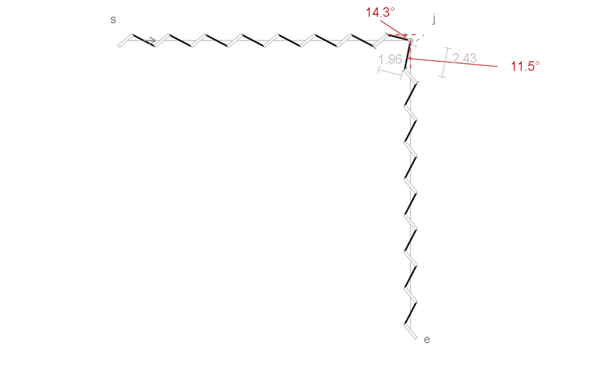
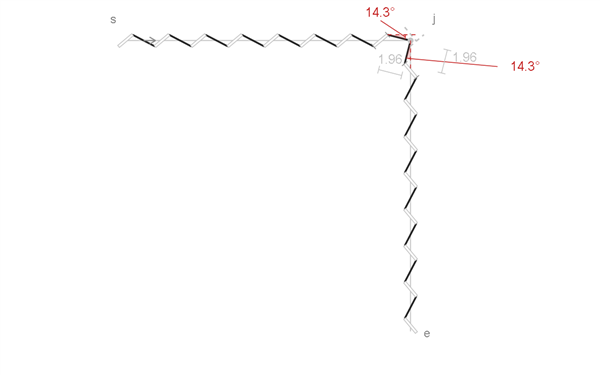
Balance vertex-point corner thread by shifting the vertical run

diff --git a/examples/illustrated/README.md b/examples/illustrated/README.md
@@ -47,7 +47,7 @@ Each solution starts at the problem's completed residual state and proceeds dire
 
 ## The corner problem
 
-`ILL-CORNER-PROBLEM`: the same right-angle guides, at $3\,\mathrm{mm}$ pitch with eight intervals per arm. Compare Vertex point, Bridge, Shared diagonal slit with mirrored lean, and Autostitch. Vertex point, the diagonal slit and Autostitch retain the outer endpoints. Bridge moves its vertical row, including the far endpoint, while retaining nominal spacing within both arms.
+`ILL-CORNER-PROBLEM`: the same right-angle guides, at $3\,\mathrm{mm}$ pitch with eight intervals per arm. Compare Vertex point, Bridge, Shared diagonal slit with mirrored lean, and Autostitch. The diagonal slit and Autostitch retain the outer endpoints. Vertex point and Bridge move their vertical rows, including the far endpoint, while retaining nominal spacing within both arms.
 
 ![Nominal rows joined by a round hole at the vertex](assets/problem-corner-vertex-point.png)
 
@@ -55,13 +55,15 @@ Each solution starts at the problem's completed residual state and proceeds dire
 
 ![Shared diagonal slit with mirrored lean](assets/problem-corner-mirrored.gif)
 
-The common arm lengths are $L_i=np-c_i/2$, with $n=8$ and $c_i$ the signed shift from the guide vertex to the A6 virtual centre along each arm's incoming direction. This gives approximately $23.471688\,\mathrm{mm}$ and $23.953779\,\mathrm{mm}$. Vertex point keeps the arm rows nominal from the outer endpoints. Vertex point absorbs the residual in the final connections to its fixed hole; Bridge joins the last nominal slits directly. A6 alone uses the minimum-adjustment selector and reserves a nominal step next to each virtual slit. The controlled balance is a fixture choice, not a general result for arbitrary endpoints.
+The common arm lengths are $L_i=np-c_i/2$, with $n=8$ and $c_i$ the signed shift from the guide vertex to the A6 virtual centre along each arm's incoming direction. This gives approximately $23.471688\,\mathrm{mm}$ and $23.953779\,\mathrm{mm}$. Vertex point keeps nominal arm spacing and shifts the vertical row to balance its corner connections. Vertex point absorbs the residual in the final connections to its fixed hole; Bridge joins the last nominal slits directly. A6 alone uses the minimum-adjustment selector and reserves a nominal step next to each virtual slit. The controlled balance is a fixture choice, not a general result for arbitrary endpoints.
+
+Vertex point translates its vertical row upward by $0.4821\,\mathrm{mm}$. The fixed vertex hole then joins two equal $1.9574\,\mathrm{mm}$ visible stitches at $14.3^\circ$ to their respective arms. The final gaps into the hole are both $2.4717\,\mathrm{mm}$; internal arm gaps remain nominal. Move the outgoing virtual slit and end marker with the row. The still and compatibility GIF use this balanced layout.
 
 Bridge translates the vertical run between two calculated positions. Matching ordinary visible thread length moves it up $1.3273\,\mathrm{mm}$, giving $2.0870\,\mathrm{mm}$ of thread and angles $47.3^\circ$ and $42.7^\circ$. Balancing the angles moves it up $1.4463\,\mathrm{mm}$, giving $2.0012\,\mathrm{mm}$ of thread and two $45^\circ$ angles. Hold each for four seconds and interpolate over $1.5\,\mathrm{s}$ each way. The still uses the length-matched position. The whole row and its end marker move; guides and incoming row stay fixed.
 
 The mirrored treatment reuses `diagonalCornerScene` with the Sellier construction parameters from `ILL-SELLIER-CORNER`, extended to the common arm lengths. Its rows stay nominal from the outer endpoints; only the final gaps into the vertex slit absorb the residuals. These are approximately $2.472\,\mathrm{mm}$ and $2.954\,\mathrm{mm}$; the first is below the Autostitch gap bound. Total absolute adjustment matches A6, but the adjusted-gap count does not. The top row starts punched; the vertical row mirrors in place before the shared diagonal slit appears.
 
-The Autostitch solution starts at the completed Vertex point layout. Its virtual slits continue the nominal rows one pitch beyond their last real slits; they are not centred on the vertex. Move the terminal virtuals and their nominally spaced real neighbours until the selected tips meet (A6), then fit the free spans while keeping the outer endpoints, neighbours and hole fixed. Gap values update; provisional gaps outside the bounds are red. The final incoming arm has two $3.264\,\mathrm{mm}$ adjusted gaps; the outgoing arm has one $3.046\,\mathrm{mm}$ adjusted gap. `I` marks identify them. Reveal the thread together and hold for four seconds.
+The Autostitch solution starts with nominal rows anchored at the original outer endpoints. Its virtual slits continue the nominal rows one pitch beyond their last real slits; they are not centred on the vertex. Move the terminal virtuals and their nominally spaced real neighbours until the selected tips meet (A6), then fit the free spans while keeping the outer endpoints, neighbours and hole fixed. Gap values update; provisional gaps outside the bounds are red. The final incoming arm has two $3.264\,\mathrm{mm}$ adjusted gaps; the outgoing arm has one $3.046\,\mathrm{mm}$ adjusted gap. `I` marks identify them. Reveal the thread together and hold for four seconds.
 
 ![Resolve the virtual crossing and fit both arms](assets/problem-corner-autostitch.gif)
 

diff --git a/docs/PITCH_skeleton.md b/docs/PITCH_skeleton.md
@@ -90,10 +90,10 @@
 
 ![Nominal rows joined by a round hole at the vertex](../examples/illustrated/assets/problem-corner-vertex-point.png)
 
-- Nominal arm spacing, as the tool lands; round hole at the vertex
-- Residual remains in the two final gaps into the hole
-- Retains the intended vertex
-- Keeps the arm runs nominal, at the cost of concentrating the spacing and thread-angle changes at the vertex
+- Keep the round hole at the vertex and move the vertical run to balance the adjoining stitches
+- Both angles are $14.3^\circ$; both visible stitch lengths are $1.96\,\mathrm{mm}$
+- Arm spacing stays nominal; the far endpoint moves with the vertical run
+- The two final gaps into the hole absorb the spacing change
 
 ### Bridge
 
@@ -125,7 +125,7 @@
 
 | Treatment | Number of adjusted gaps | Absolute adjustment ($\mathrm{mm}$) | Absolute stitch-length deviation ($\mathrm{mm}$) |
 | --- | ---: | ---: | ---: |
-| Vertex point | $2$ | $0.575$ | $0.470$ |
+| Vertex point | $2$ | $1.057$ | $0.259$ |
 | Bridge | $1$ | $0.041$ | $0.000$ |
 | Shared diagonal slit with mirrored lean | $2$ | $0.575$ | $0.407$ |
 | Autostitch | $3$ | $0.575$ | $0.516$ |
